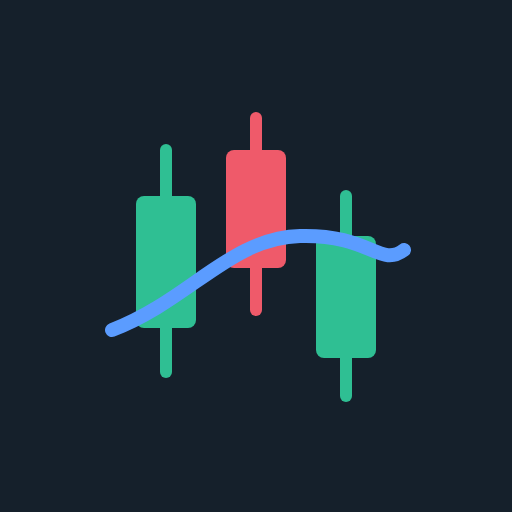
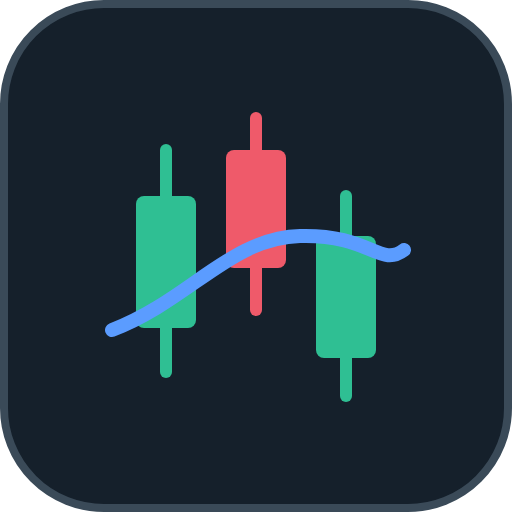
圖示改成圓角加淡邊框；maskable 和 Apple 用正方形版
Claude-Session: https://claude.ai/code/session_01CZZrb5vHC4eYhzQPvSJigJ

Changed region(s): [[0.0, 0.0, 1.0, 1.0]]

diff --git a/sw.js b/sw.js
@@ -1,7 +1,7 @@
 // MES 交易日誌 — 讓網頁能安裝成應用程式。
 // 只快取網頁本身（網路優先：有網路就拿最新版，沒網路才用快取）；
 // GitHub 資料和 Anthropic 一律直接連線，不經過快取。
-const CACHE = 'mes-journal-v32';
+const CACHE = 'mes-journal-v33';
 const SHELL = ['./', './index.html', './store.js', './practice.html', './manifest.webmanifest', './practice.webmanifest', './icons/practice-192.png', './icons/practice-512.png', './icons/practice.svg', './icons/icon-192.png', './icons/icon-512.png', './icons/icon.svg'];
 
 self.addEventListener('install', (e) => {
